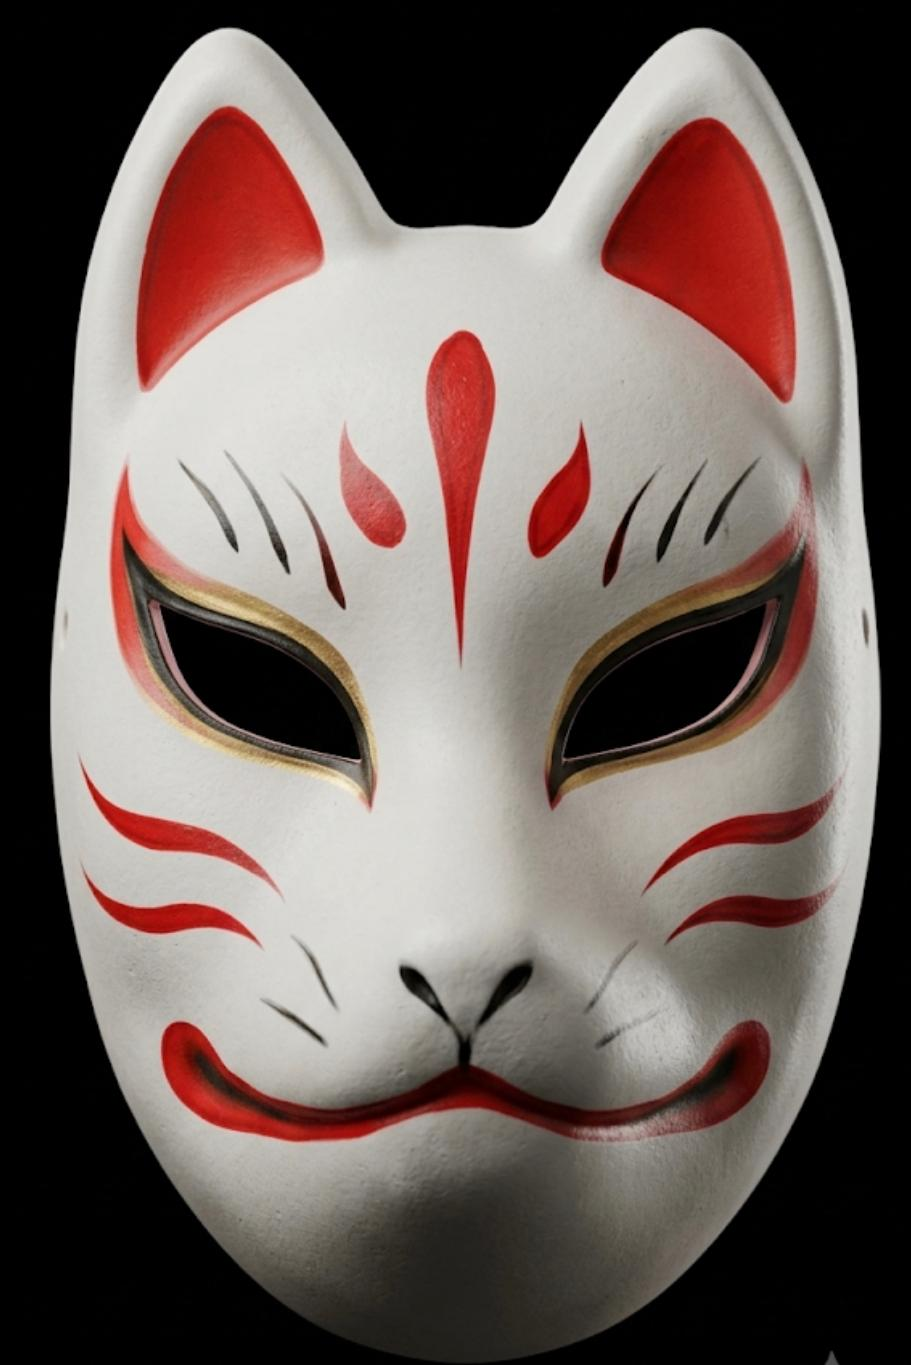
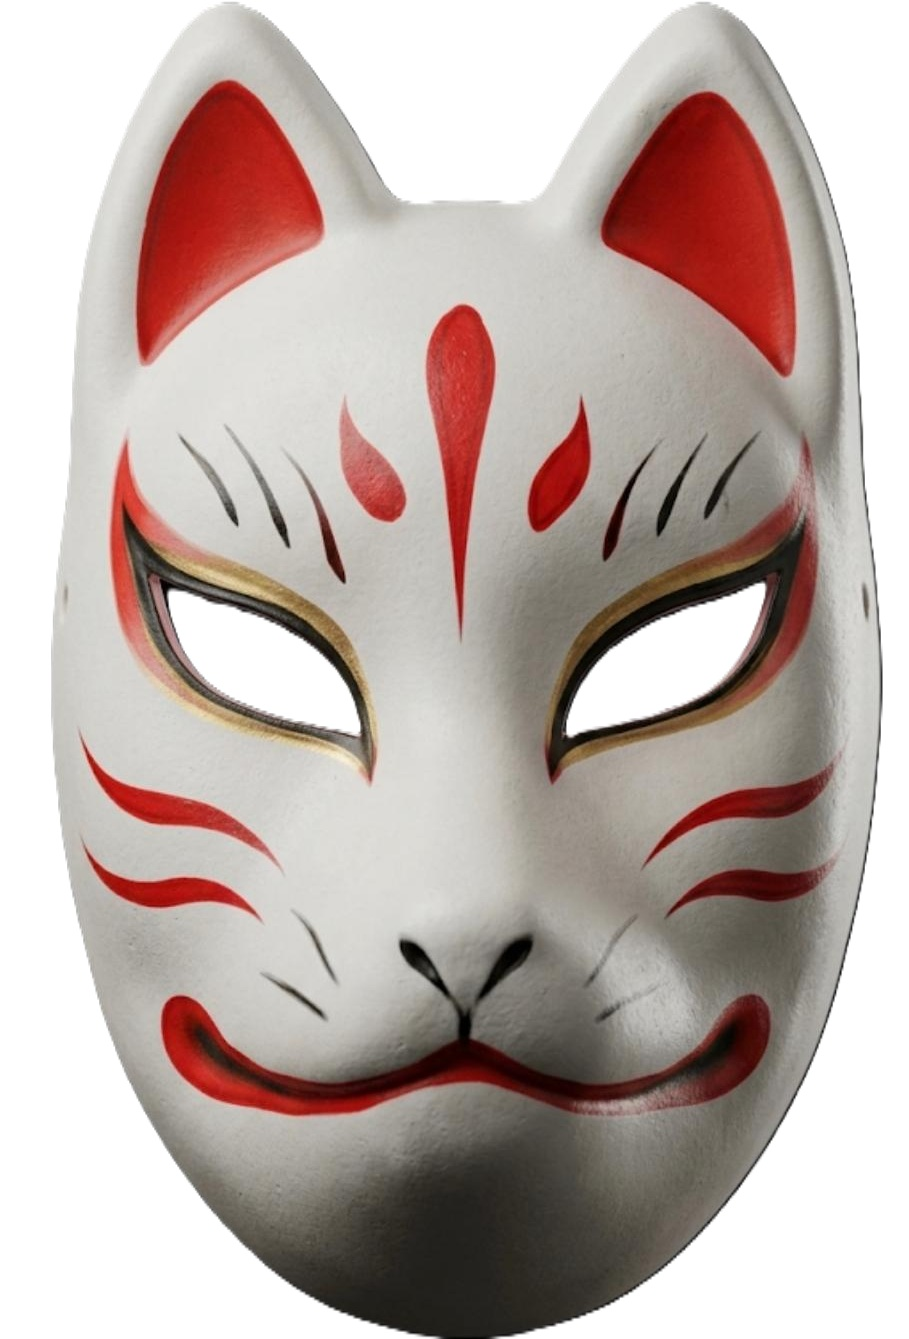
fix: use transparent full-frame loader mask

diff --git a/src/infrastructure/generation/static-site-writer.ts b/src/infrastructure/generation/static-site-writer.ts
@@ -267,8 +267,8 @@ const template = (inputProfile: CreatorProfile): string => {
   .site-loader::after{width:min(53vw,460px);border-style:dashed;border-color:rgba(241,229,215,.2);animation:loader-orbit 5s linear infinite reverse}
   .site-loader-inner{position:relative;z-index:1;display:grid;justify-items:center;gap:18px}
   .site-loader-mask{
-    width:clamp(190px,29vw,310px);aspect-ratio:1;object-fit:cover;object-position:center 42%;
-    border-radius:50%;clip-path:circle(50%);background:#000;filter:drop-shadow(0 18px 26px rgba(0,0,0,.72));
+    width:auto;height:clamp(250px,34vw,390px);object-fit:contain;object-position:center;
+    background:transparent;filter:drop-shadow(0 18px 26px rgba(0,0,0,.72));
     animation:loader-mask-spin 2.8s cubic-bezier(.45,.05,.55,.95) infinite;
   }
   .site-loader-label{font-size:.7rem;font-weight:700;letter-spacing:.2em;text-transform:uppercase;color:var(--cream-soft)}
@@ -748,7 +748,7 @@ const template = (inputProfile: CreatorProfile): string => {
 
 <div class="site-loader" id="siteLoader" role="status" aria-label="Cargando Kitsune Tattoo">
   <div class="site-loader-inner">
-    <img class="site-loader-mask" src="assets/brand/kitsune-loader-mask.jpg" alt="" aria-hidden="true">
+    <img class="site-loader-mask" src="assets/brand/kitsune-loader-mask.png" alt="" aria-hidden="true">
   </div>
 </div>
 